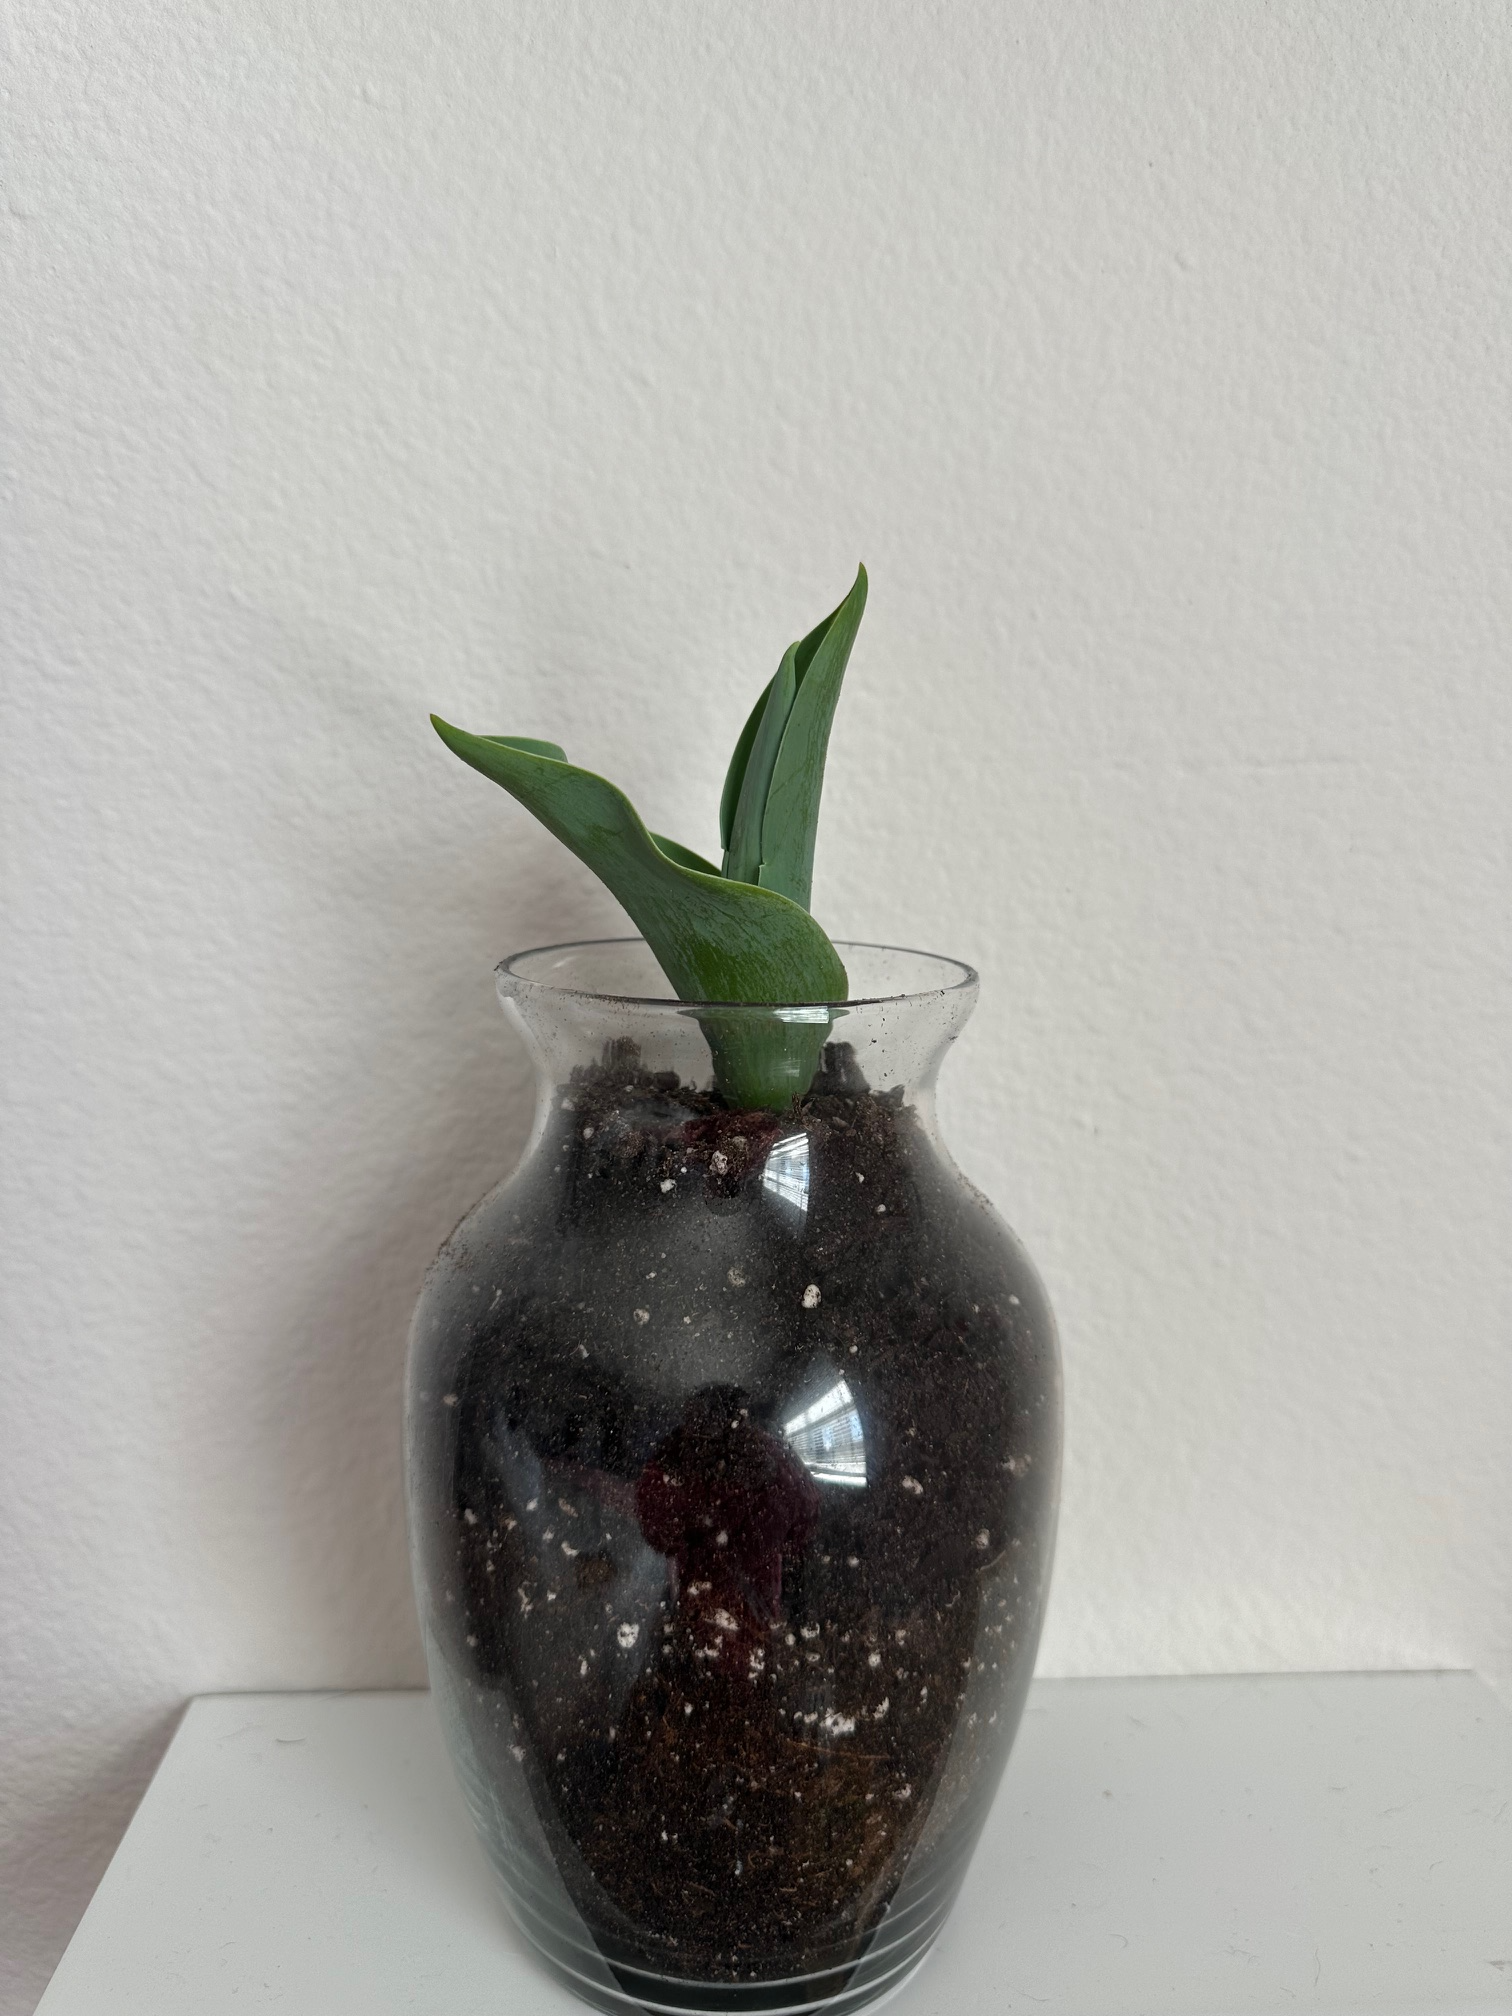
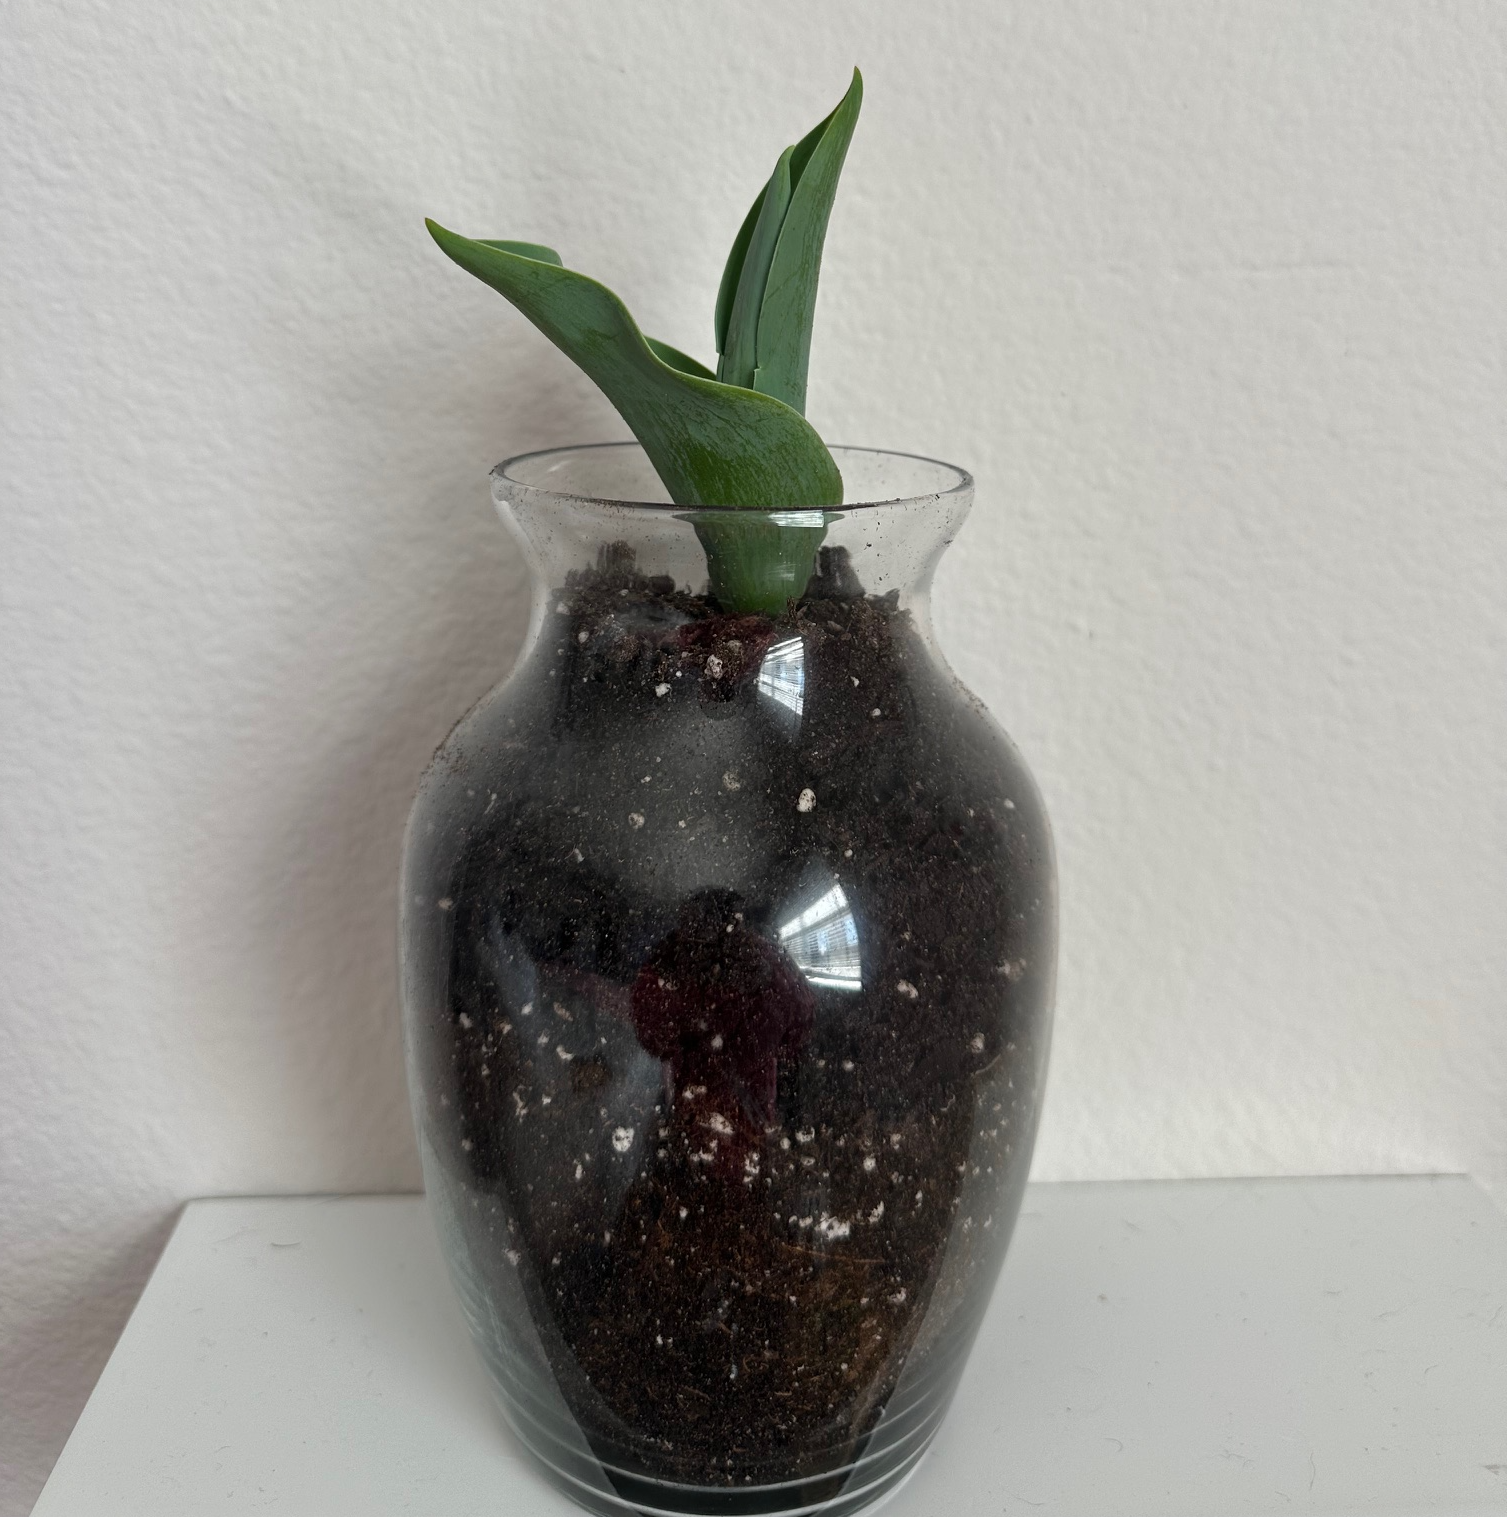
Added TulipPage

diff --git a/src/components/HyacinthPage.js b/src/components/HyacinthPage.js
@@ -10,6 +10,11 @@ import feb14 from "../images/hyacinth/2:14.png";
 import feb15 from "../images/hyacinth/2:15.png";
 import feb16 from "../images/hyacinth/2:16.png";
 import feb17 from "../images/hyacinth/2:17.png";
+import feb18 from "../images/hyacinth/2:18.png";
+import feb19 from "../images/hyacinth/2:19.png";
+import feb17p from "../images/purpleH/2:17.png";
+import feb18p from "../images/purpleH/2:18.png";
+import feb19p from "../images/purpleH/2:19.png";
 import image from "../images/image.png";
 
 export default function HyacinthPage() {
@@ -88,6 +93,7 @@ export default function HyacinthPage() {
 							<h3 className="text-center">2.13.2024</h3>
 						</div>
 					</div>
+					{/* start 2nd row */}
 					<div className="row">
 						<div className="column5 text-center">
 							<img
@@ -128,12 +134,61 @@ export default function HyacinthPage() {
 						</div>
 						<div className="column5 text-center">
 							<img
-								src={image}
+								src={feb18}
 								alt="no-rel"
 								title="Hyacinth"
 								className="img-fluid"
 							/>
 							<h3 className="text-center">2.18.2024</h3>
+							<p>Bottom one is dying...</p>
+						</div>
+					</div>
+					{/* start 3rd row */}
+					<div className="row">
+						<div className="column5 text-center">
+							<img
+								src={feb19}
+								alt="no-rel"
+								title="Hyacinth"
+								className="img-fluid"
+							/>
+							<h3 className="text-center">2.19.2024</h3>
+						</div>{" "}
+						<div className="column5 text-center">
+							<img
+								src={image}
+								alt="no-rel"
+								title="Hyacinth"
+								className="img-fluid"
+							/>
+							<h3 className="text-center">2.20.2024</h3>
+						</div>
+						<div className="column5 text-center">
+							<img
+								src={image}
+								alt="no-rel"
+								title="Hyacinth"
+								className="img-fluid"
+							/>
+							<h3 className="text-center">2.21.2024</h3>
+						</div>
+						<div className="column5 text-center">
+							<img
+								src={image}
+								alt="no-rel"
+								title="Hyacinth"
+								className="img-fluid"
+							/>
+							<h3 className="text-center">2.22.2024</h3>
+						</div>
+						<div className="column5 text-center">
+							<img
+								src={image}
+								alt="no-rel"
+								title="Hyacinth"
+								className="img-fluid"
+							/>
+							<h3 className="text-center">2.23.2024</h3>
 						</div>
 					</div>
 				</div>
@@ -144,25 +199,27 @@ export default function HyacinthPage() {
 					<div className="row">
 						<div className="column5 text-center">
 							<img
-								src={image}
+								src={feb17p}
 								alt="no-rel"
 								title="Purple Hyacinth"
 								className="img-fluid"
 							/>
 							<h3 className="text-center">2.17.2024</h3>
+							<p>All of his roots rotted off when I replanted</p>
 						</div>
 						<div className="column5 text-center">
 							<img
-								src={image}
+								src={feb18p}
 								alt="no-rel"
 								title="Purple Hyacinth"
 								className="img-fluid"
 							/>
 							<h3 className="text-center">2.18.2024</h3>
+							<p>Drying out in a new home</p>
 						</div>
 						<div className="column5 text-center">
 							<img
-								src={image}
+								src={feb19p}
 								alt="no-rel"
 								title="Purple Hyacinth"
 								className="img-fluid"

diff --git a/src/components/TulipPage.js b/src/components/TulipPage.js
@@ -1,0 +1,89 @@
+import React from "react";
+import Navbar from "./Navbar";
+import "./TulipPage.css";
+import image from "../images/image.png";
+import feb17 from "../images/tulip/2:17.png";
+import feb18 from "../images/tulip/2:18.png";
+import feb19 from "../images/tulip/2:19.png";
+
+export default function TulipPage() {
+	return (
+		<div>
+			<Navbar />
+			<div className="TulipPage">
+				<div className="container-clear">
+					<h1 className="text-center">Tulip</h1>
+					<p>
+						Tulips are iconic bulbs flowering in April or May, filling gardens
+						with color, including hybrids produced in every color except true
+						blue. Tulip bulbs contain alkaloid and glycoside compounds that are{" "}
+						<strong>
+							mildly toxic to humans (can cause "tulip fingers") and are more
+							seriously toxic to pets.
+						</strong>
+					</p>
+					<p>
+						<strong> Care Instructions:</strong> <br />- Plant bulbs in the
+						fall; they need the winter chill to spur emergence in the spring.{" "}
+						<br />
+						- Place in full sun <br />
+						- Ensure they have well-draining soil that will not be waterlogged
+						or get too much moisture or humidity; only water when dry
+						<br />- Feed the soil with compost, bone meal, or granular
+						fertilizer when planting.
+					</p>
+				</div>
+				{/* pic container start*/}
+				<div className="container">
+					<div className="row">
+						<div className="column5 text-center">
+							<img
+								src={feb17}
+								alt="no-rel"
+								title="Hyacinth"
+								className="img-fuid"
+							/>
+							<h3 className="text-center">2.17.2024</h3>
+						</div>{" "}
+						<div className="column5 text-center">
+							<img
+								src={feb18}
+								alt="no-rel"
+								title="Hyacinth"
+								className="img-fuid"
+							/>
+							<h3 className="text-center">2.18.2024</h3>
+						</div>{" "}
+						<div className="column5 text-center">
+							<img
+								src={feb19}
+								alt="no-rel"
+								title="Hyacinth"
+								className="img-fuid"
+							/>
+							<h3 className="text-center">2.19.2024</h3>
+						</div>{" "}
+						<div className="column5 text-center">
+							<img
+								src={image}
+								alt="no-rel"
+								title="Hyacinth"
+								className="img-fuid"
+							/>
+							<h3 className="text-center">2.20.2024</h3>
+						</div>{" "}
+						<div className="column5 text-center">
+							<img
+								src={image}
+								alt="no-rel"
+								title="Hyacinth"
+								className="img-fuid"
+							/>
+							<h3 className="text-center">2.21.2024</h3>
+						</div>
+					</div>
+				</div>
+			</div>
+		</div>
+	);
+}

diff --git a/src/components/TulipPage.css b/src/components/TulipPage.css
@@ -1,0 +1,61 @@
+:root {
+	--headerFont: "Playfair", serif;
+	--textFont: "Lora", serif;
+	--primaryColor: linear-gradient(to top, #c1dfc4 0%, #deecdd 100%);
+}
+.TulipPage {
+	margin: 0 auto;
+	padding: 20px 30px;
+	background: var(--primaryColor);
+	font-family: var(--headerFont);
+}
+.container {
+	background: var(--primaryColor);
+	box-shadow: 0 5px 10px rgba(0, 0, 0, 0.3);
+	border-radius: 4px;
+}
+.TulipPage .container-clear {
+	background: transparent;
+	padding: 15px 15px 0 15px;
+	margin: 30px;
+}
+.TulipPage h1 {
+	font-size: 80px;
+}
+.TulipPage h2 {
+	text-align: center;
+	font-size: 35px;
+}
+.TulipPage p {
+	font-family: var(--textFont);
+	font-size: 15px;
+}
+.TulipPage .row {
+	display: flex;
+	flex-wrap: wrap;
+}
+.TulipPage .column5 {
+	flex: 20%;
+	max-width: 20%;
+	margin: 0 auto;
+	margin-bottom: 10px;
+}
+.TulipPage .column5 img {
+	margin-top: 20px;
+	width: 100%;
+}
+@media (max-width: 900px) {
+	.TulipPage {
+		padding: 1px 30px;
+	}
+	.TulipPage .column5 {
+		flex: 100%;
+		max-width: 100%;
+	}
+	.TulipPage h1 {
+		font-size: 50px;
+	}
+	.TulipPage h2 {
+		font-size: 35px;
+	}
+}

diff --git a/src/index.js b/src/index.js
@@ -6,6 +6,7 @@ import { createBrowserRouter, RouterProvider } from "react-router-dom";
 
 import PothosPage from "./components/PothosPage";
 import HyacinthPage from "./components/HyacinthPage";
+import TulipPage from "./components/TulipPage";
 
 const router = createBrowserRouter([
 	{
@@ -20,6 +21,10 @@ const router = createBrowserRouter([
 	{
 		path: "/HyacinthPage",
 		element: <HyacinthPage />,
+	},
+	{
+		path: "/TulipPage",
+		element: <TulipPage />,
 	},
 ]);
 

diff --git a/src/components/Navbar.js b/src/components/Navbar.js
@@ -18,6 +18,9 @@ export default function Navbar() {
 				<li>
 					<Link to="/HyacinthPage">Hyacinth</Link>
 				</li>
+				<li>
+					<Link to="/TulipPage">Tulip</Link>
+				</li>
 			</ul>
 		</div>
 	);
